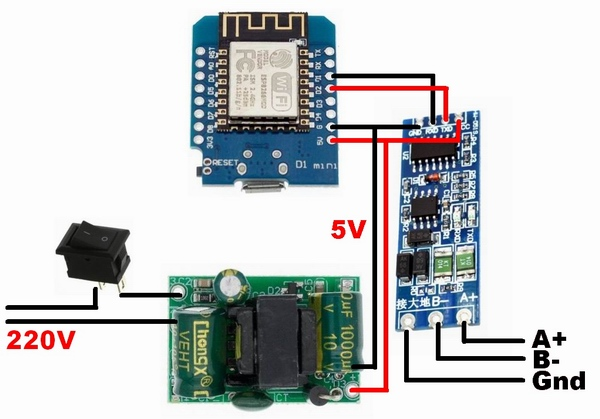
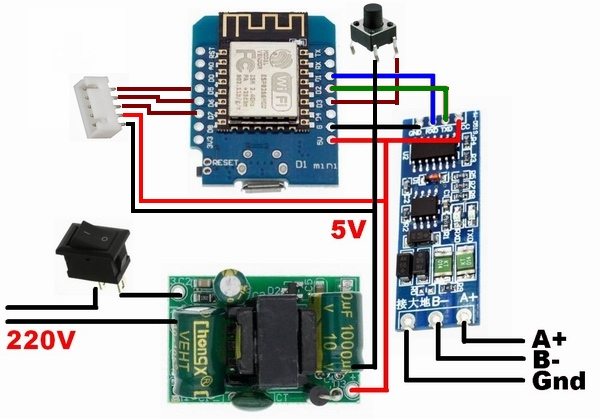
Documenting

Changed region(s): [[0.12, 0.1551, 0.66, 0.5274], [0.54, 0.0, 0.75, 0.3103]]

diff --git a/README.md b/README.md
@@ -16,10 +16,15 @@
  * [Различные](https://www.aliexpress.com/item/32829408859.html) [колодки](https://aliexpress.ru/item/32828321217.html), 
  [выключатели](https://www.chipdip.ru/product/smrs-101-1c2), [втулки](https://aliexpress.ru/item/32877279906.html) россыпью и 3D принтер для печати корпуса :)
 
-Header1 | Description2
---------|-------------
-![Схема](https://github.com/mosave/SDM630Gateway/blob/main/photos/diagram.jpg) | Description
+### "Принципиальная схема" :sunglasses:
 
+Обратите внимание: кнопка и XH2.54 разъем, на который выведены D5, D6 и D7 **не нужны** и добавлены просто на всякий случай.
+В репозитории есть 2 модели корпуса для печати: с местом под разъем XH и без него.
+![Схема](https://github.com/mosave/SDM630Gateway/blob/main/photos/diagram.jpg)
 
-### Схема подключения
+### Несколько фотографий:
+
+![Фото 1](https://github.com/mosave/SDM630Gateway/blob/main/photos/p1.jpg)
+![Фото 2](https://github.com/mosave/SDM630Gateway/blob/main/photos/p2.jpg)
+![Фото 3](https://github.com/mosave/SDM630Gateway/blob/main/photos/p3.jpg)
 
